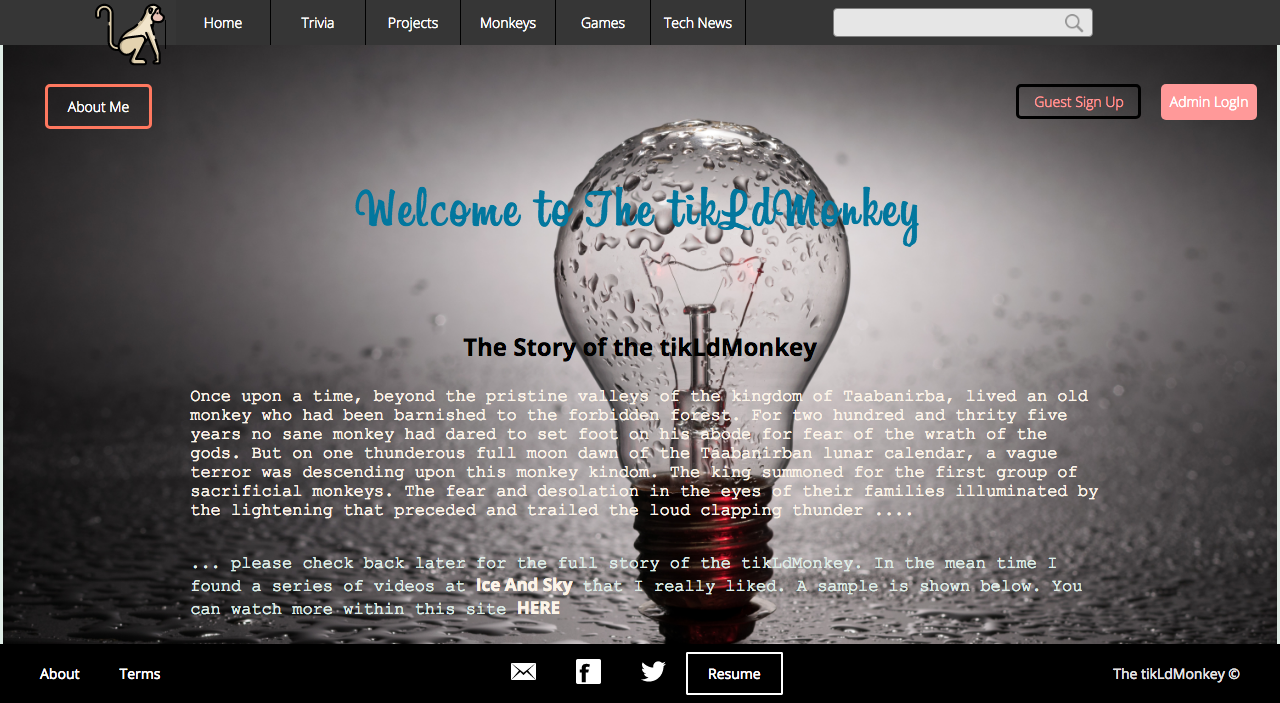
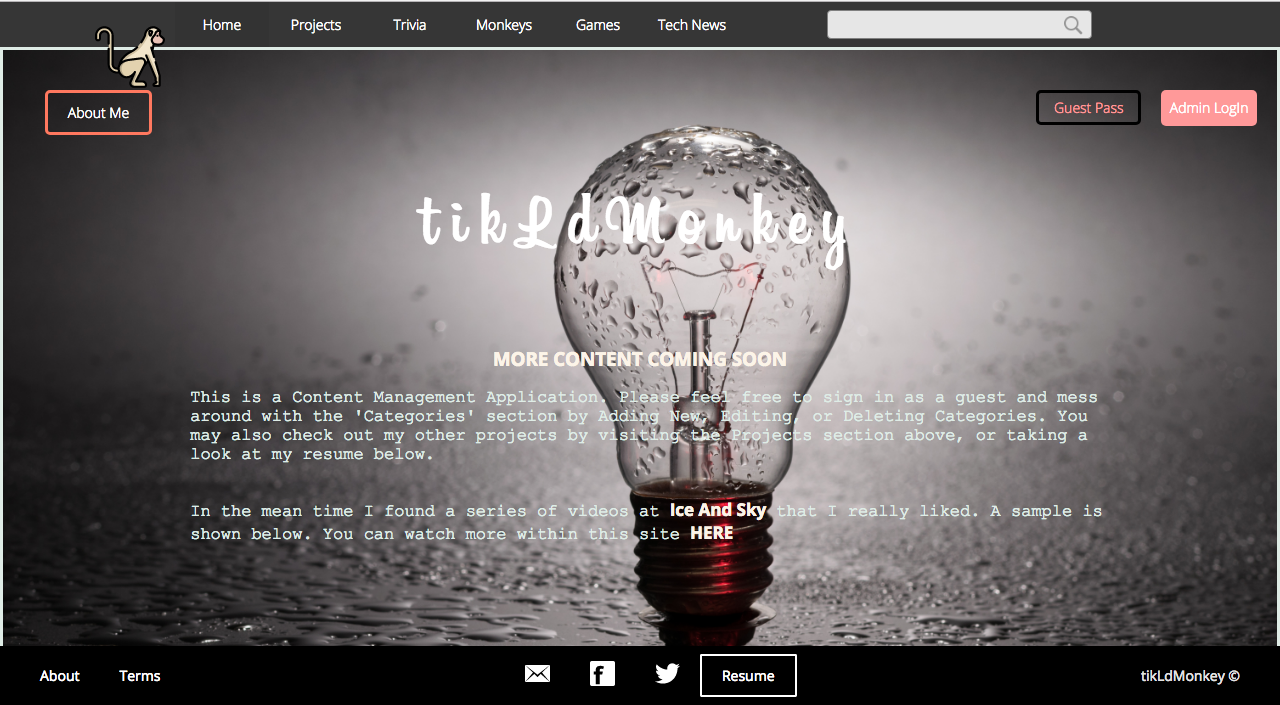
updated homepage

diff --git a/README.md b/README.md
@@ -143,7 +143,7 @@ const Trivium = (props) => (
 export default Trivium;
 ```
 
-![Alt text](http://res.cloudinary.com/swy/image/upload/v1501110986/tkld1_hexh4v.png "homepage")
+![Alt text](http://res.cloudinary.com/swy/image/upload/v1501230580/tkld1_lemlr7.png "homepage")
 ![Alt text](http://res.cloudinary.com/swy/image/upload/v1501042663/tkld2_gjdjan.png "homepage signup")
 ![Alt text](http://res.cloudinary.com/swy/image/upload/v1501042663/tkld3_ncwm7k.png "homepage trivia")
 ![Alt text](http://res.cloudinary.com/swy/image/upload/v1501042661/tkld4_banyni.png "homepage category")
